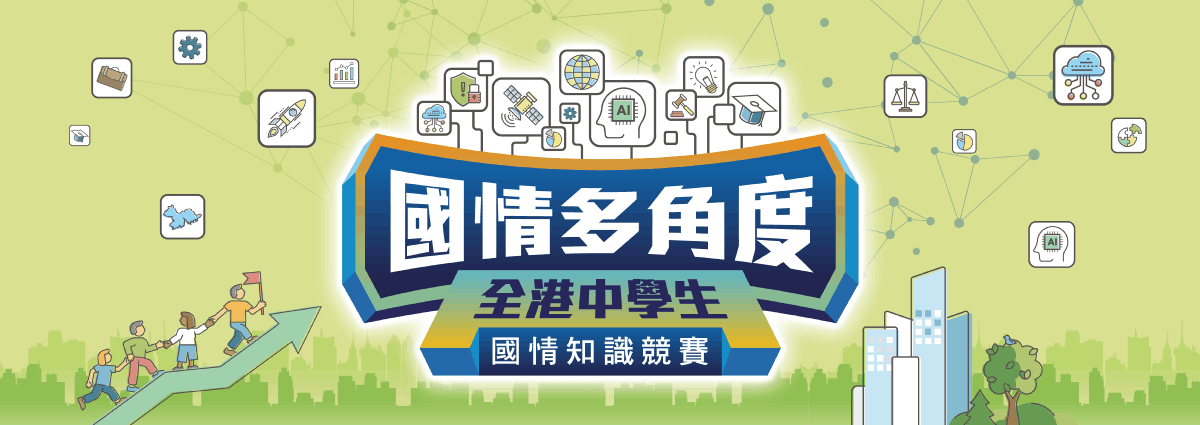
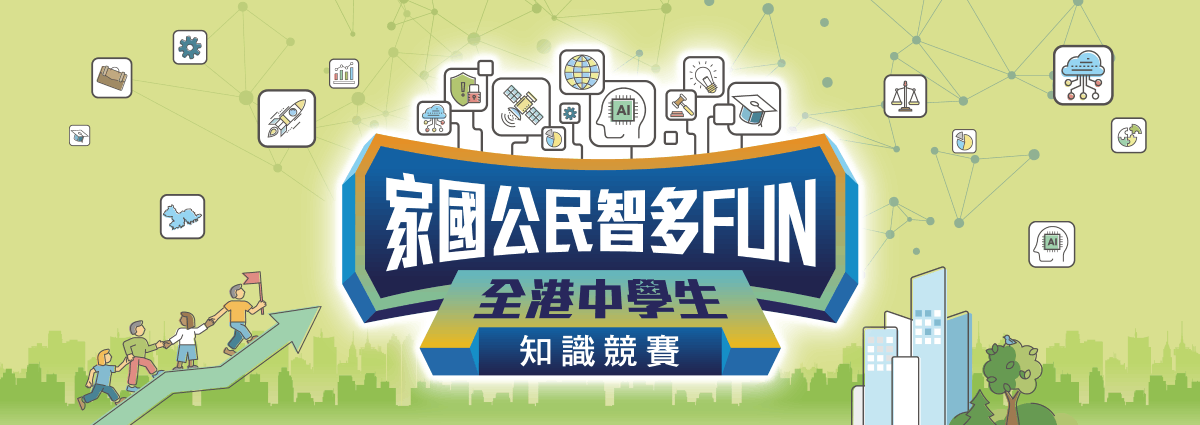
update images and templates due to game name change

diff --git a/resources/views/emails/registration/verify_school_registration.blade.php b/resources/views/emails/registration/verify_school_registration.blade.php
@@ -7,7 +7,7 @@
         <td align="left">
             <p><b>{{ strpos($registration->name, '老師') === false  ? $registration->name . "老師" : $registration->name}}：</b></p>
 
-            <p>感謝 貴校支持 「國家安全教育通通識-校際挑戰賽」，我們已收到 貴校提交的登記。</p>
+            <p>感謝 貴校支持 「家國公民智多 FUN-知識競賽」，我們已收到 貴校提交的登記。</p>
             <p>請點擊以下連結完成登記驗證程序：</p>
             <p>
                 <a href="{{ route('school_registration.verify') }}?token={{$registration->verification_token}}" target="blank">

diff --git a/resources/views/index.blade.php b/resources/views/index.blade.php
@@ -56,7 +56,7 @@
 		// Swal.fire({
 		// 	type: 'info',
 		// 	width: 600,
-		// 	title: '為讓更多同學認識國家安全，享受寓學習於線上問答有獎遊戲，第二屆「國家安全教育通通識」線上校際個人賽將延長至2月17日。',
+		// 	title: '為讓更多同學認識國家安全，享受寓學習於線上問答有獎遊戲，第二屆「家國公民智多 FUN」線上校際個人賽將延長至2月17日。',
 		// 	html: '',
 		// 	showConfirmButton: true,
 		// 	showCloseButton: true,

diff --git a/resources/views/emails/registration/confirm_school_registration.blade.php b/resources/views/emails/registration/confirm_school_registration.blade.php
@@ -5,7 +5,7 @@
         <td align="left" style="">
             <p><b>{{ strpos($registration->name, '老師') === false  ? $registration->name . "老師" : $registration->name}}：</b></p>
 
-            <p>感謝 貴校支持 國家安全教育通通識-校際挑戰賽 ，我們已核實 貴校的登記。</p>
+            <p>感謝 貴校支持 家國公民智多 FUN-知識競賽 ，我們已核實 貴校的登記。</p>
 
             {{-- <p>您可以開始點擊以下連結，導入學生參賽名單：</p>
 

diff --git a/resources/views/layouts/email.blade.php b/resources/views/layouts/email.blade.php
@@ -21,7 +21,7 @@
         <tr>
             <th style="background: #284299; color: #FFF; padding:10px 20px;">
                 <div style="margin:0 auto; width:100%; max-width:600px; padding:10px; -webkit-box-sizing:border-box; box-sizing:border-box;">
-                    國家安全教育通通識
+                    家國公民智多 FUN
                 </div>
             </th>
         </tr>
